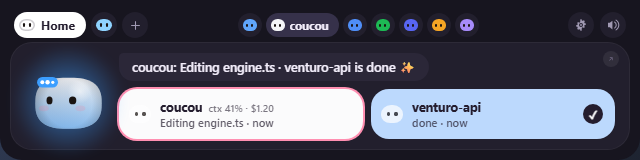
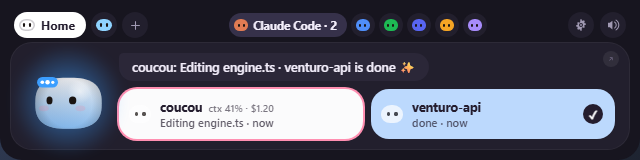
feat(windows): fold sessions into one header chip
Each session still had its own chip, so the header filled up with them.
Now one chip stands for every session, and Home's board lists them.

Problem:
- Four sessions meant four chips next to the real pills
- Swiping stepped through each session before reaching a pill

Changes:
- One chip with the session count and the most urgent badge
- A click opens the focused, waiting or newest session
- Swipe and arrow keys step past all sessions at once
- No slide when moving between sessions on the board
- Tests for the grouping rules; README and screenshot updated

Changed region(s): [[0.3438, 0.0625, 0.75, 0.25]]

diff --git a/windows/src/views/carousel.ts b/windows/src/views/carousel.ts
@@ -1,21 +1,89 @@
 // Overview carousel: one pill on screen, swipe (trackpad, drag, arrows) or
-// tap a dot to move. No DOM here: the stepping and gesture rules, tested alone.
+// tap a chip to move. No DOM here: the stepping and gesture rules, tested alone.
+//
+// Claude Code sessions are one stop: a single "Claude Code" chip in the header,
+// and Home's board shows the sessions inside it (views/board.ts). Stepping
+// moves past all of them at once; a tile on the board picks one.
+
+/**
+ * island/sessions.ts SESSION_PREFIX. Copied, not imported, so node --test can
+ * load this file; tests/carousel.test.ts checks the two never drift apart.
+ */
+export const SESSION_STOP_PREFIX = "cc_";
+
+const isSessionStop = (id: string) => id.startsWith(SESSION_STOP_PREFIX);
+
+/** The run of session pills collapses to one stop: `current` if it is one of them, else the first. */
+export function pillStops(ids: string[], current: string | null): string[] {
+  const stops: string[] = [];
+  let inRun = false;
+  for (const id of ids) {
+    const session = isSessionStop(id);
+    if (session && inRun) {
+      if (id === current) stops[stops.length - 1] = id;
+      continue;
+    }
+    inRun = session;
+    stops.push(id);
+  }
+  return stops;
+}
 
 /** The pill next to `current`, wrapping round at either end. */
 export function stepFocus(ids: string[], current: string | null, dir: 1 | -1): string | null {
-  if (ids.length === 0) return null;
-  const at = current == null ? -1 : ids.indexOf(current);
-  if (at < 0) return ids[0];
-  return ids[(at + dir + ids.length) % ids.length];
+  const stops = pillStops(ids, current);
+  if (stops.length === 0) return null;
+  const at = current == null ? -1 : stops.indexOf(current);
+  if (at < 0) return stops[0];
+  return stops[(at + dir + stops.length) % stops.length];
 }
 
-/** -1 = moved to an earlier pill, 1 = a later one, 0 = same or unknown. */
+/** -1 = moved to an earlier pill, 1 = a later one, 0 = same, unknown or within the sessions. */
 export function slideDirection(ids: string[], from: string | null, to: string | null): -1 | 0 | 1 {
   if (from == null || to == null || from === to) return 0;
-  const a = ids.indexOf(from);
-  const b = ids.indexOf(to);
-  if (a < 0 || b < 0) return 0;
+  const key = (id: string) => (isSessionStop(id) ? SESSION_STOP_PREFIX : id);
+  const keys = pillStops(ids, null).map(key);
+  const a = keys.indexOf(key(from));
+  const b = keys.indexOf(key(to));
+  if (a < 0 || b < 0 || a === b) return 0;
   return b > a ? 1 : -1;
+}
+
+/** A pill as the header's chips see it. */
+export interface StopPill {
+  id: string;
+  name: string;
+  color: string;
+  badge?: "approval" | "finished" | "error" | null;
+}
+
+/** The header chip standing for every session; a UI id, never stored anywhere. */
+export const SESSIONS_CHIP_ID = "claude-code-sessions";
+
+/** The most urgent badge first: a request waiting on you, an error, news. */
+const BADGE_RANK: Record<string, number> = { approval: 0, error: 1, finished: 2 };
+
+/**
+ * The header's pills, with every session folded into one "Claude Code" chip.
+ * `targetId` is what a click focuses: for the sessions chip, the focused
+ * session if one is, else one that waits on you, else the most recent.
+ */
+export function sessionChips(pills: StopPill[], focusId: string, group: { name: string; color: string }):
+  { pills: (StopPill & { targetId: string })[]; focusChip: string } {
+  const sessions = pills.filter((p) => isSessionStop(p.id));
+  const plain = (p: StopPill) => ({ ...p, targetId: p.id });
+  if (sessions.length === 0) return { pills: pills.map(plain), focusChip: focusId };
+  const target = sessions.find((s) => s.id === focusId) ?? sessions.find((s) => s.badge === "approval") ?? sessions[0];
+  const badge = sessions.map((s) => s.badge).filter((b) => b != null)
+    .sort((x, y) => BADGE_RANK[x] - BADGE_RANK[y])[0] ?? null;
+  const chip = {
+    id: SESSIONS_CHIP_ID, name: sessions.length > 1 ? `${group.name} · ${sessions.length}` : group.name,
+    color: group.color, badge, targetId: target.id,
+  };
+  const first = pills.findIndex((p) => isSessionStop(p.id));
+  const rest = pills.filter((p) => !isSessionStop(p.id)).map(plain);
+  rest.splice(first, 0, chip);
+  return { pills: rest, focusChip: isSessionStop(focusId) ? SESSIONS_CHIP_ID : focusId };
 }
 
 /** Horizontal travel, in pixels, that counts as one swipe. */

diff --git a/windows/tests/carousel.test.ts b/windows/tests/carousel.test.ts
@@ -2,9 +2,10 @@
 import { test } from "node:test";
 import assert from "node:assert/strict";
 import {
-  DRAG_DISTANCE, GESTURE_GAP_MS, SWIPE_COOLDOWN_MS, SwipeAccumulator, dragDirection, slideDirection,
-  stepFocus,
+  DRAG_DISTANCE, GESTURE_GAP_MS, SESSIONS_CHIP_ID, SESSION_STOP_PREFIX, SWIPE_COOLDOWN_MS, SwipeAccumulator,
+  dragDirection, pillStops, sessionChips, slideDirection, stepFocus,
 } from "../src/views/carousel.ts";
+import { SESSION_PREFIX } from "../src/island/sessions.ts";
 
 const ids = ["cc_a", "integration_quota", "integration_space"];
 
@@ -52,4 +53,62 @@ test("dragging left shows the next pill; short or vertical drags are clicks", ()
   assert.equal(dragDirection(DRAG_DISTANCE + 1, 5), -1);
   assert.equal(dragDirection(-20, 0), 0);
   assert.equal(dragDirection(-50, 60), 0);
+});
+
+// ── Claude Code sessions are one stop ─────────────────────────────────────────
+
+const many = ["cc_a", "cc_b", "cc_c", "integration_space", "integration_media"];
+
+test("the session prefix matches island/sessions.ts", () => {
+  assert.equal(SESSION_STOP_PREFIX, SESSION_PREFIX);
+});
+
+test("all sessions collapse into one stop, kept on the focused one", () => {
+  assert.deepEqual(pillStops(many, null), ["cc_a", "integration_space", "integration_media"]);
+  assert.deepEqual(pillStops(many, "cc_c"), ["cc_c", "integration_space", "integration_media"]);
+});
+
+test("stepping moves past every session at once, and back to the first", () => {
+  assert.equal(stepFocus(many, "cc_b", 1), "integration_space");
+  assert.equal(stepFocus(many, "cc_c", -1), "integration_media", "wraps round");
+  assert.equal(stepFocus(many, "integration_space", -1), "cc_a");
+  assert.equal(stepFocus(many, "integration_media", 1), "cc_a");
+});
+
+test("moving between sessions does not slide the card", () => {
+  assert.equal(slideDirection(many, "cc_a", "cc_c"), 0);
+  assert.equal(slideDirection(many, "cc_c", "integration_media"), 1);
+  assert.equal(slideDirection(many, "integration_space", "cc_b"), -1);
+});
+
+const pill = (id: string, badge: "approval" | "finished" | "error" | null = null) =>
+  ({ id, name: id, color: "#fff", badge });
+const GROUP = { name: "Claude Code", color: "#E07B53" };
+
+test("the header shows one Claude Code chip for every session", () => {
+  const out = sessionChips([pill("cc_a"), pill("cc_b", "finished"), pill("integration_space")], "integration_space", GROUP);
+  assert.deepEqual(out.pills.map((p) => p.id), [SESSIONS_CHIP_ID, "integration_space"]);
+  assert.equal(out.pills[0].name, "Claude Code · 2");
+  assert.equal(out.pills[0].badge, "finished");
+  assert.equal(out.focusChip, "integration_space");
+});
+
+test("the sessions chip opens the focused session, else one waiting on you, else the newest", () => {
+  const ps = [pill("cc_a"), pill("cc_b", "approval"), pill("integration_space")];
+  assert.equal(sessionChips(ps, "cc_a", GROUP).pills[0].targetId, "cc_a");
+  assert.equal(sessionChips(ps, "cc_a", GROUP).focusChip, SESSIONS_CHIP_ID);
+  assert.equal(sessionChips(ps, "integration_space", GROUP).pills[0].targetId, "cc_b");
+  assert.equal(sessionChips([pill("cc_x"), pill("cc_y")], "z", GROUP).pills[0].targetId, "cc_x");
+});
+
+test("an urgent badge wins over news, and one session needs no count", () => {
+  const out = sessionChips([pill("cc_a", "finished"), pill("cc_b", "approval"), pill("cc_c", "error")], "cc_a", GROUP);
+  assert.equal(out.pills[0].badge, "approval");
+  assert.equal(sessionChips([pill("cc_a")], "cc_a", GROUP).pills[0].name, "Claude Code");
+});
+
+test("without sessions the pills pass through untouched", () => {
+  const out = sessionChips([pill("integration_claude"), pill("integration_space")], "integration_claude", GROUP);
+  assert.deepEqual(out.pills.map((p) => [p.id, p.targetId]), [["integration_claude", "integration_claude"], ["integration_space", "integration_space"]]);
+  assert.equal(out.focusChip, "integration_claude");
 });

diff --git a/windows/src/views/header.ts b/windows/src/views/header.ts
@@ -6,10 +6,14 @@ import { MIC_ICON, MIC_OFF_ICON, micBadge, micUsers, micUsersLabel } from "./she
 import { Bridge } from "../core/bridge";
 import { h, svg, clear, face } from "./dom";
 import { ICONS } from "./icons";
-import { State, type AgentTask } from "../core/state";
+import { State } from "../core/state";
 import type { IslandViewName } from "../core/layout";
 import { PAGER_MAX_W, pagerChips, pillLabel, type PagerChip } from "./pager";
+import { sessionChips, type StopPill } from "./carousel";
 import type { ViewActions, ViewHost } from "./views";
+
+/** The one chip that stands for every Claude Code session. */
+const SESSIONS_CHIP = { name: "Claude Code", color: "#E07B53" };
 
 /** Ring on a chip whose pill waits on you or just finished. */
 const BADGE_RING: Record<string, string> = { approval: "#F5A524", finished: "#22C55E", error: "#F4505E" };
@@ -43,16 +47,16 @@ function buildTabs(go: Go) {
   };
 }
 
-/** One pill's chip; a click on an inactive chip focuses that pill. */
-function chipEl(chip: PagerChip, task: AgentTask | undefined, actions: ViewActions): HTMLElement {
+/** One pill's chip; a click on an inactive chip focuses its pill (a session, for the sessions chip). */
+function chipEl(chip: PagerChip, pill: (StopPill & { targetId: string }) | undefined, actions: ViewActions): HTMLElement {
   const isActive = chip.label !== null;
   const el = h("button", {
     class: isActive ? "pchip on" : "pchip",
-    title: task ? pillLabel(task) : "",
+    title: pill ? pillLabel(pill) : "",
     onclick: () => {
-      if (!isActive) actions.setFocus(chip.id);
+      if (!isActive && pill) actions.setFocus(pill.targetId);
     },
-  }, face(task?.color ?? "#ffffff", CHIP_FACE));
+  }, face(pill?.color ?? "#ffffff", CHIP_FACE));
   if (chip.label) el.append(h("span", { class: "pchip-label", text: chip.label }));
   if (chip.badge) el.style.setProperty("--ring", BADGE_RING[chip.badge]);
   return el;
@@ -73,13 +77,16 @@ function buildPager(actions: ViewActions) {
     key = next;
     clear(el);
     if (!show) return;
+    const grouped = sessionChips(
+      tasks.map((t) => ({ id: t.id, name: t.name, color: t.color, badge: t.pillBadge })), focus, SESSIONS_CHIP);
     // The open header is always 640 px wide, so the strip's room is a constant
     // (measuring it would read the island mid-animation, while it still grows).
-    const layout = pagerChips(tasks.map((t) => ({ id: t.id, name: t.name, badge: t.pillBadge })), focus, PAGER_MAX_W);
-    const byId = new Map(tasks.map((t) => [t.id, t]));
+    const layout = pagerChips(grouped.pills, grouped.focusChip, PAGER_MAX_W);
+    const byId = new Map(grouped.pills.map((p) => [p.id, p]));
     for (const chip of layout.chips) el.append(chipEl(chip, byId.get(chip.id), actions));
     const more = layout.overflow;
-    if (more) el.append(h("button", { class: "pchip more", text: `+${more.count}`, onclick: () => actions.setFocus(more.nextId) }));
+    const moreTarget = more ? byId.get(more.nextId)?.targetId : undefined;
+    if (more && moreTarget) el.append(h("button", { class: "pchip more", text: `+${more.count}`, onclick: () => actions.setFocus(moreTarget) }));
   }
   return { el, sync };
 }

diff --git a/windows/README.md b/windows/README.md
@@ -160,8 +160,11 @@ network call is the Music pill's lyrics (lrclib.net), which Settings can turn of
   header shows one chip per pill, a mini Mochi in that pill's colour, a ring on
   any with news, and the active pill's name. Two-finger swipe (or tilt wheel),
   drag the card left/right, ← →, or tap a chip to move between pills.
-- **Sessions.** Every Claude Code session gets its own pill. On one of them,
-  Home shows the session board: Mochi says what the sessions are up to, and a
+- **Sessions.** Every Claude Code session is tracked on its own, but the header
+  shows them all as **one** "Claude Code" chip ("Claude Code · 3"), with the
+  most urgent badge of the lot. Swipes and ← → step past every session at once
+  (`views/carousel.ts`, `tests/carousel.test.ts`). Inside it, Home shows the
+  session board: Mochi says what the sessions are up to, and a
   tile per session gives its step or state, the time since it last moved,
   context % and cost, with sessions that need you first (`views/board.ts`,
   `tests/board.test.ts`). Past 3 sessions the last tile reads "+N more". A
@@ -411,7 +414,9 @@ identity. It is Windows-only: the Mac app keeps the App Store look.
   `views/pager.ts` decides which chips fit the 340 px strip; the pills furthest
   from the active one fold into a `+N` chip that opens the next hidden pill
   (`tests/pager.test.ts`, including 6 pills plus 2 sessions with a long name).
-  The header stays 34 px tall: `core/layout.ts` places Mochi under it, so a
+  Claude Code sessions fold into one chip first (`sessionChips` in
+  `views/carousel.ts`); a click on it opens the focused session, else one
+  waiting on you, else the newest. The header stays 34 px tall: `core/layout.ts` places Mochi under it, so a
   taller header would push the cards off Mochi.
 - **Home.** With an agent session in focus, Home is the session board
   (`views/boardView.ts`): the speech bubble, then pastel tiles in each
